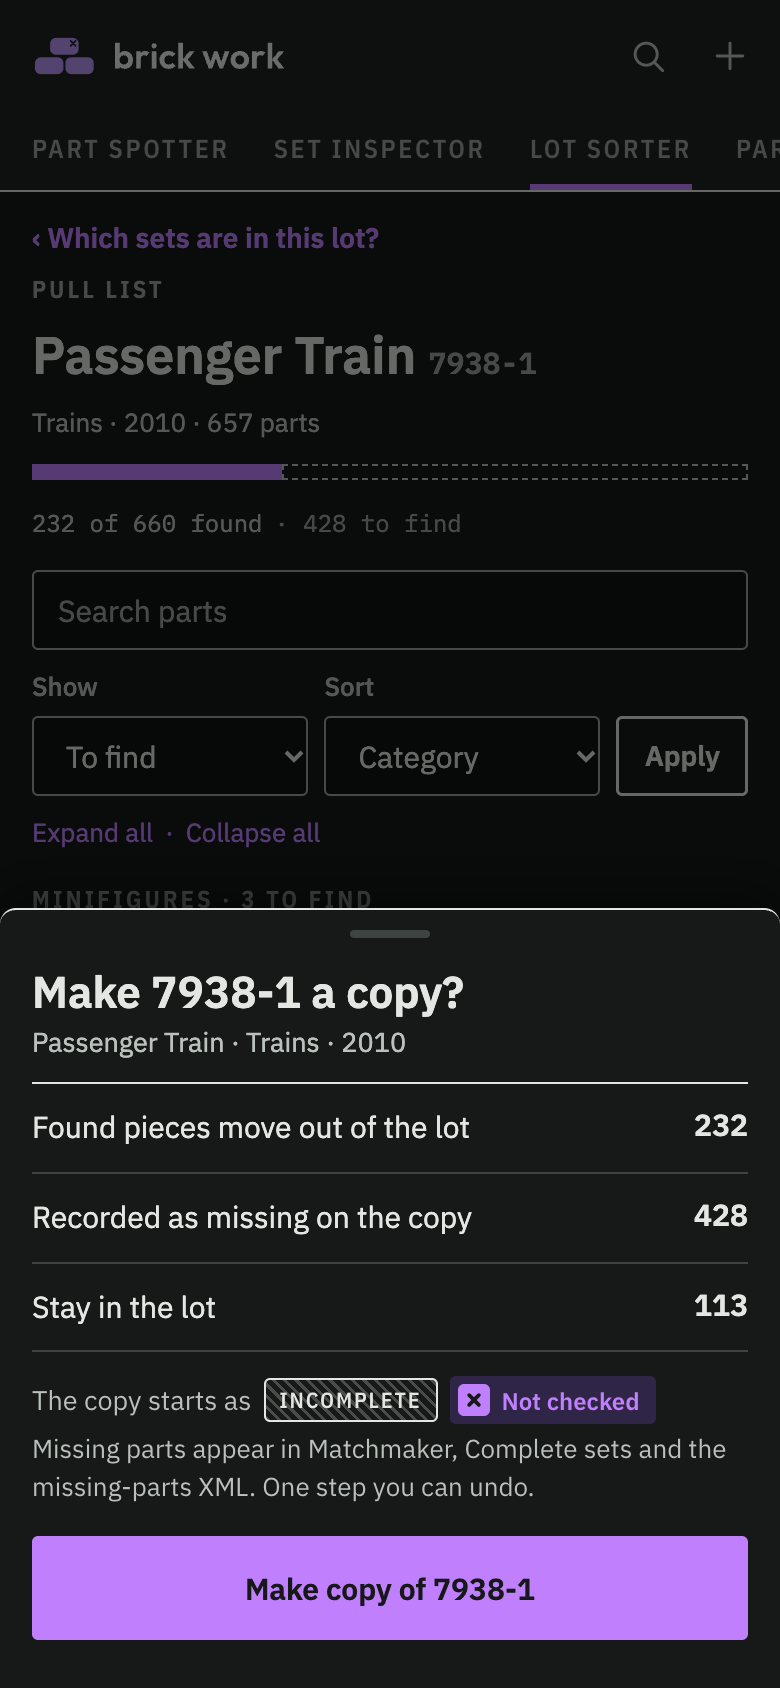
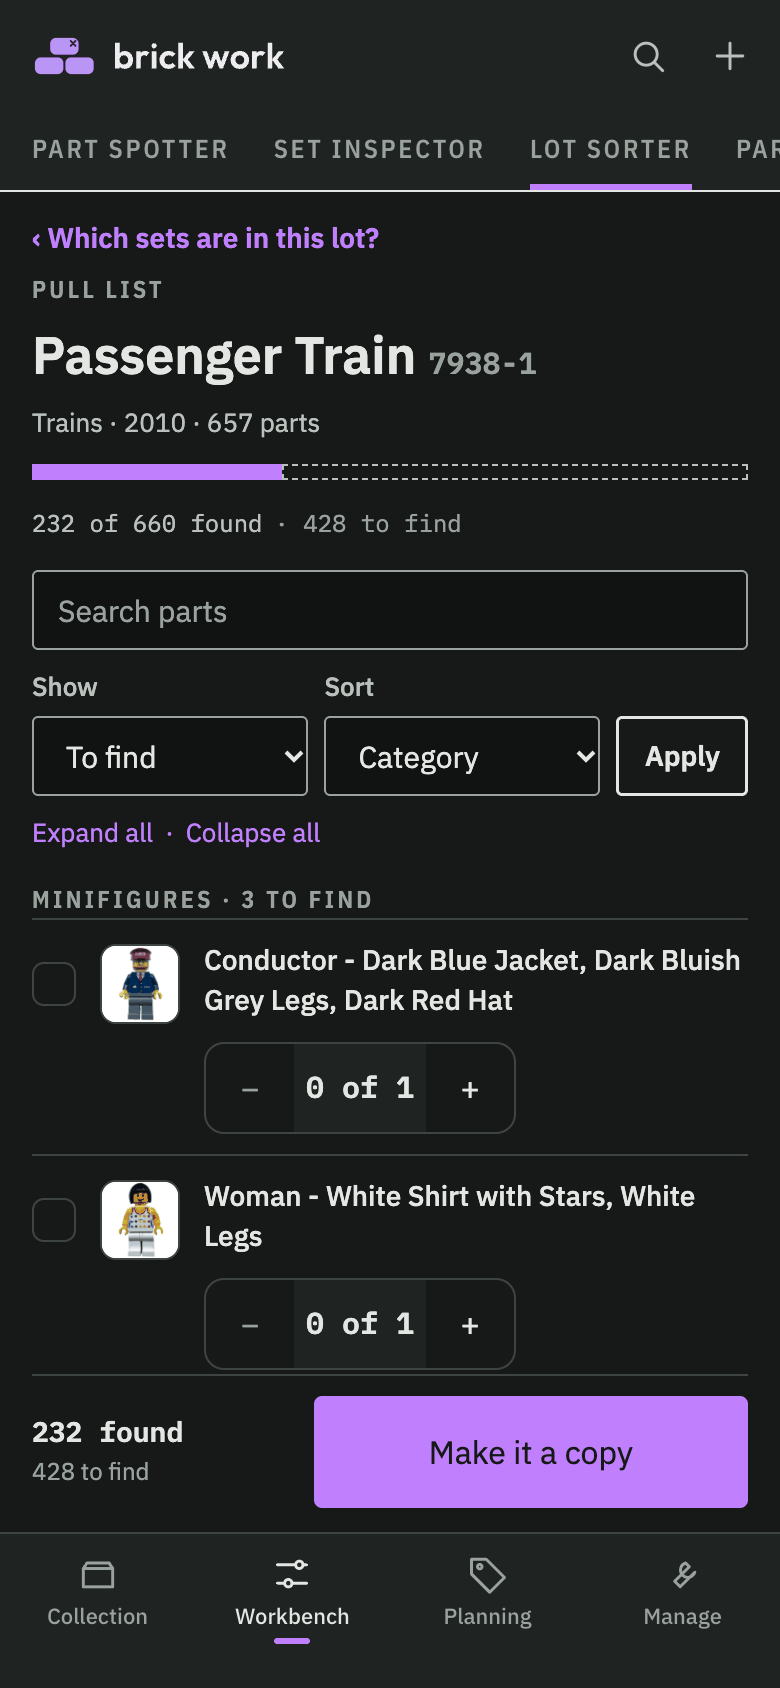
Site pictures: readable tile crops, Build it before the sheet, Set detection and Part Spotter tiles (#526 follow-up)
Design's findings on #542: the Orders, Storage and Build Scout shots are 1024 wide and cut at 768 (4:3), so the tile shows the top left at a readable size; Build it shows the pull list before the confirm sheet opens. The Set detection card gets its tile from lot-detect-desktop-1440, re-shot in the new look (so the two old pictures are in use and nothing is deleted). The Part Spotter card gets Ulf's own photo of a 2 x 2 brick (part-spotter/own-photos, cropped, no overlay); the picture test names it as the one non-capture.

Docs: none, the site's own pictures

Claude-Session: https://claude.ai/code/session_018rf9z6rjRKwfGfRGmRRHUP

diff --git a/scripts/site/landing.html b/scripts/site/landing.html
@@ -32,7 +32,7 @@
 <div class="sec" id="workbench"><div class="inner">
 <div class="head"><span class="label">The workbench</span><h2>Every app does inventory. Brick Work helps at the table.</h2><p class="lede">Four workflows do the work at the table, beside Orders and Storage; more help you decide what to build, order and sell.</p></div>
 <div class="grid g3">
-<a class="card wf-card" href="{up}docs/how-to/identify-a-minifigure/"><div class="body"><span class="label">Workbench</span><h3>Part Spotter</h3><p>Photograph a piece or figure and name it. Results queue up for you to confirm.</p></div></a>
+<a class="card wf-card" href="{up}docs/how-to/identify-a-minifigure/"><div class="tile wide">{pic:part-spotter-photo|Part Spotter: a photo of a 2 x 2 brick}</div><div class="body"><span class="label">Workbench</span><h3>Part Spotter</h3><p>Photograph a piece or figure and name it. Results queue up for you to confirm.</p></div></a>
 <a class="card wf-card" href="{up}workflows/#check-set-parts"><div class="tile">{pic:3e-start-phone-390|Set Inspector}</div><div class="body"><span class="label">Workbench</span><h3>Set Inspector</h3><p>Go through a copy part by part against its inventory and keep a running count of what is missing.</p></div></a>
 <a class="card wf-card" href="{up}workflows/#part-picker"><div class="tile">{pic:3c-picker-sets-phone-390|Part Runner}</div><div class="body"><span class="label">Workbench</span><h3>Part Runner</h3><p>Tick several sets and get the missing parts you can pull from loose stock, in your own order.</p></div></a>
 <a class="card wf-card" href="{up}workflows/#matcher"><div class="tile">{pic:3a-matcher-phone-390|Matchmaker}</div><div class="body"><span class="label">Workbench</span><h3>Matchmaker</h3><p>See which incomplete copies your loose stock can finish, then decide what to build or buy.</p></div></a>
@@ -43,7 +43,7 @@
 <div class="grid g3">
 <a class="card wf-card" href="{up}docs/how-to/find-sets-to-build/"><div class="tile wide">{pic:scout-list-desktop-1440|Build Scout}</div><div class="body"><h3>Build Scout</h3><p>Rank every set by how much of it your loose stock already makes, with the cost of the rest.</p></div></a>
 <a class="card wf-card" href="{up}docs/tutorials/build-from-what-you-have/"><div class="tile">{pic:lot-pull-confirm-phone-390|Build it}</div><div class="body"><h3>Build it</h3><p>Turn a set into a copy as one undoable step.</p></div></a>
-<a class="card wf-card" href="{up}docs/tutorials/find-the-sets-in-a-bulk-lot/"><div class="body"><h3>Set detection</h3><p>Find the sets inside a bulk lot.</p></div></a>
+<a class="card wf-card" href="{up}docs/tutorials/find-the-sets-in-a-bulk-lot/"><div class="tile wide">{pic:lot-detect-desktop-1440|Set detection}</div><div class="body"><h3>Set detection</h3><p>Find the sets inside a bulk lot.</p></div></a>
 <a class="card wf-card" href="{up}docs/tutorials/build-from-what-you-have/"><div class="body"><h3>Order missing parts</h3><p>The gaps of the sets you choose in one BrickLink wanted list. One order instead of many.</p></div></a>
 <a class="card wf-card" href="{up}docs/tutorials/value-and-selling/"><div class="body"><h3>Value and selling</h3><p>What a copy cost and is worth now, and a drafted asking price and listing text. Nothing is posted.</p></div></a>
 <a class="card wf-card" href="{up}docs/tutorials/storage-and-labels/"><div class="body"><h3>Storage labels</h3><p>Print QR labels for your boxes and drawers. Scan one to open what is inside.</p></div></a>

diff --git a/scripts/site_shots.py b/scripts/site_shots.py
@@ -144,11 +144,11 @@ SITE_PICTURES = {
     '3e-part-desktop-1440': ('/workbench/check-parts/%s?run=1' % R_STARTED, 1440, 900, NO_FOUND_ROWS, (README,)),   # README and social previews (#502)
     '3c-picker-sets-phone-390': ('/workbench/part-picker', 390, 844, None, (SITE,)),
     '3c-picker-pick-phone-390': (R_PICKED + '&pick=1', 390, 950, None, (SITE, README)),   # also the README's and the social previews' (#502)
-    '12b-count-what-arrived-desktop-1440': ('/workbench/orders/2', 1440, 1050, None, (SITE,)),
-    '12c-list-and-detail-desktop-1440': ('/workbench/storage/storage-shelf-b', 1440, 900, None, (SITE,)),
-    'scout-list-desktop-1440': ('/workbench/build-scout?min_percent=10', 1440, 900, HIDE_PANEL, (SITE,)),
-    'lot-detect-desktop-1440': (R_LOT_PAGE + '?detect=1&ignore_common=1#set-detection', 1440, 900, SHOW_DETECTION + COLLAPSE_CANDIDATES, (SITE,)),
-    'lot-pull-confirm-phone-390': (first_pull(R_LOT_PAGE, '/make-copy'), 390, 844, None, (SITE,)),
+    '12b-count-what-arrived-desktop-1440': ('/workbench/orders/2', 1024, 768, None, (SITE,)),   # 1024 wide, cut at 768 high: the 4:3 tile shows the top left at a readable size (design, 2026-11-23)
+    '12c-list-and-detail-desktop-1440': ('/workbench/storage/storage-shelf-b', 1024, 768, None, (SITE,)),
+    'scout-list-desktop-1440': ('/workbench/build-scout?min_percent=10', 1024, 768, HIDE_PANEL, (SITE,)),
+    'lot-detect-desktop-1440': (R_LOT_PAGE + '?detect=1&ignore_common=1#set-detection', 1024, 768, SHOW_DETECTION + COLLAPSE_CANDIDATES, (SITE,)),
+    'lot-pull-confirm-phone-390': (first_pull(R_LOT_PAGE), 390, 844, None, (SITE,)),   # the pull list before the confirm sheet opens: the sheet dims the screen and reads as disabled (design, 2026-11-23)
 }
 
 

diff --git a/tests/test_site_pages.py b/tests/test_site_pages.py
@@ -330,6 +330,7 @@ def test_every_image_the_readme_and_the_pages_show_exists_and_is_a_built_capture
         sys.path.remove(sys_path)
     stems, site_stems = set(site_shots.PICTURES), set(site_shots.SITE_PICTURES)   # the README's captures are the showcase world's, plus the real-world shots site_shots also writes to the README; the site's are the real-sets world's
     stems |= {stem for stem, spec in site_shots.SITE_PICTURES.items() if site_shots.README in spec[-1]}   # a real-world shot written to the README too (#502, #622)
+    site_stems |= {'part-spotter-photo'}   # the Part Spotter tile is Ulf's own photo of a 2 x 2 brick (part-spotter/own-photos/test/3003, no overlay), not a capture (Ulf, 2026-11-23)
     shown = set()
     for source in ('README.md', 'scripts/site/landing.html', 'scripts/site/use-cases.md', 'scripts/site/pages/workflows.html'):
         text = (ROOT / source).read_text()
